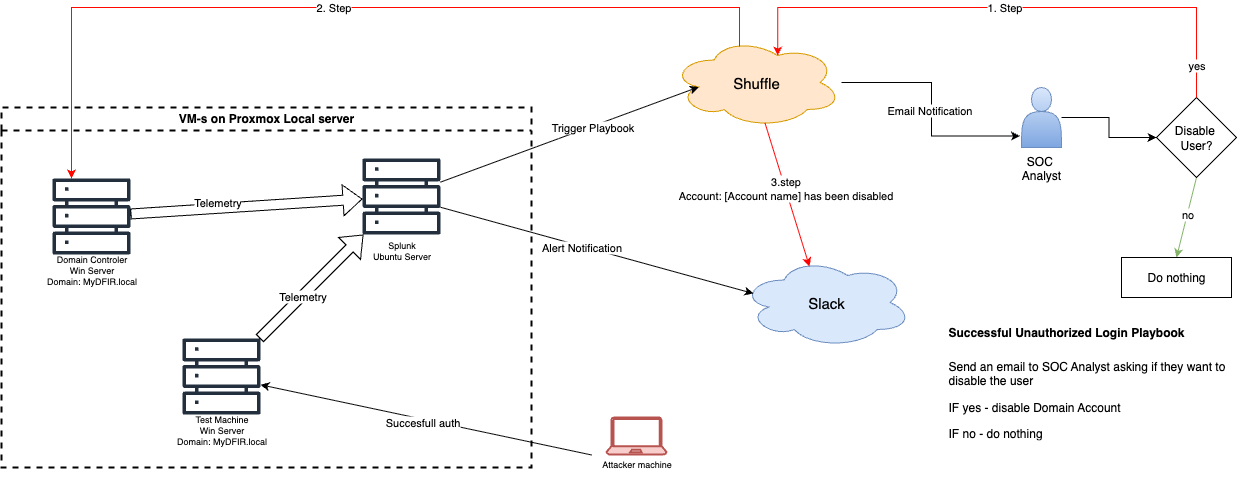
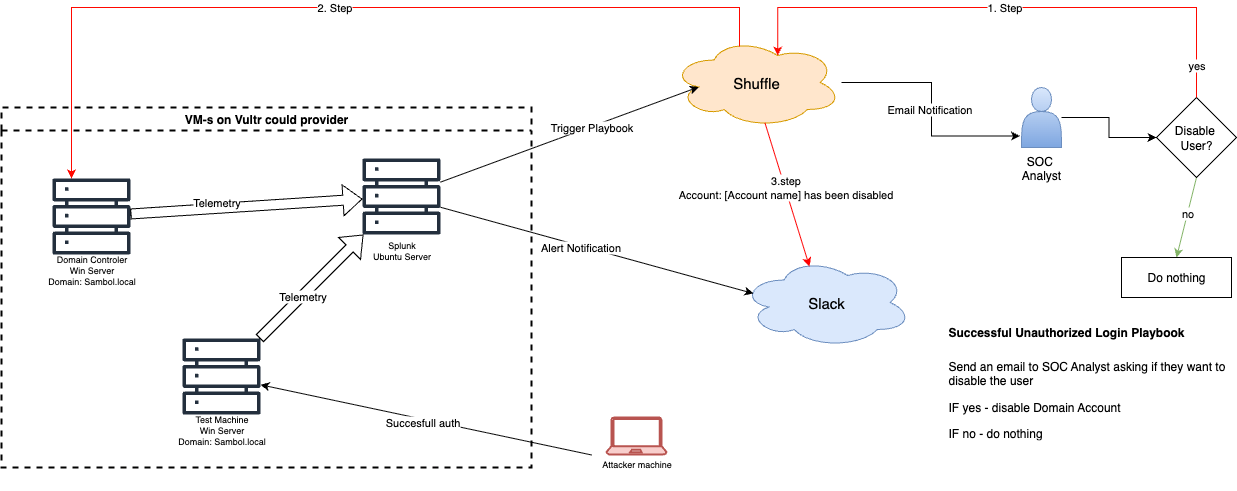
Change image and add setup

diff --git a/01-SOC_AD_README.md b/01-SOC_AD_README.md
@@ -3,6 +3,7 @@
 Tools used in this project:
 * Splunk for SIEM, Slack for case management and Suffle for SOAR capabilities. 
 * Small active directory environment with user to perform authentication
+* 3 VM-s are created in the cloud using Vultr
 
 ## Showcase of data flow
 
@@ -11,6 +12,13 @@ Tools used in this project:
 
 ## Description
 
+
+## Setup
+
+Here are the steps of project:
+1. Setting up 2 windows servers and 1 Ubuntu server in Vultr 
+2. Configuring and protecting them with firewall so I will only be able to access them
+3. Configuring main Win Server (Sambol.local) Acive directory and promoting it to domain controller
 
 
 
